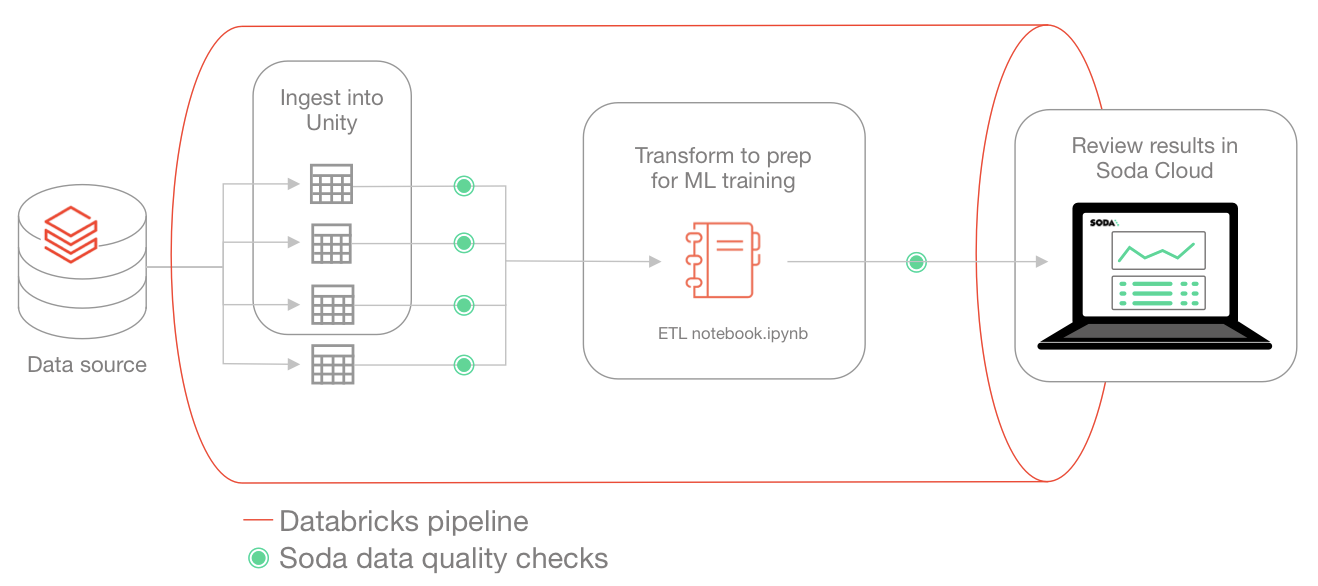
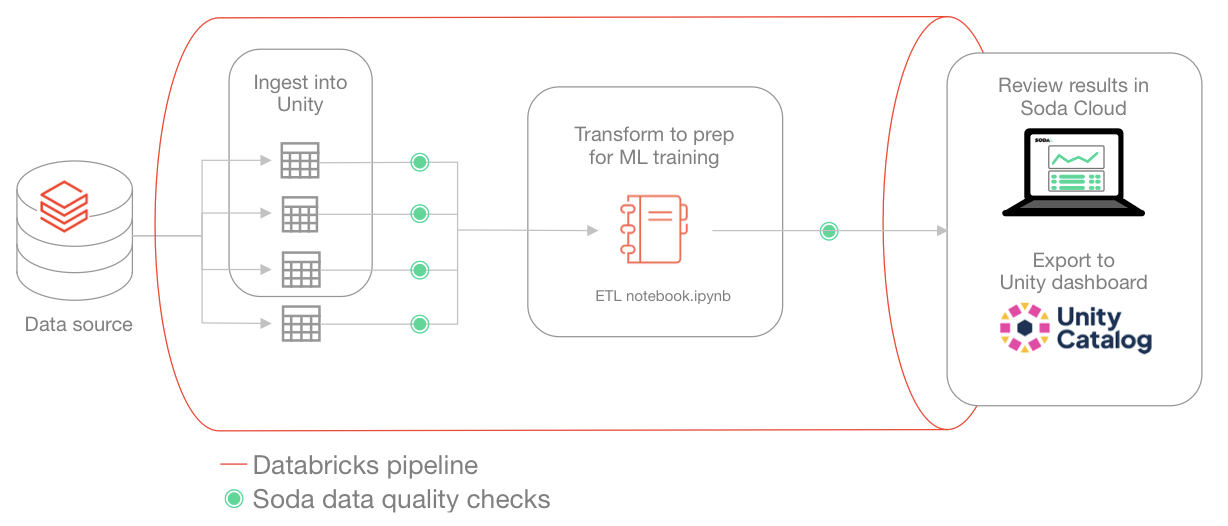
Addressed corrections + added unity catalog ending

diff --git a/soda/quick-start-databricks-pipeline.md b/soda/quick-start-databricks-pipeline.md
@@ -8,7 +8,7 @@ parent: Use case guides
 # Test data quality in a Databricks pipeline
 *Last modified on {% last_modified_at %}*
 
-Use this guide as an example for how to set up and use Soda to test the quality of data in a Databricks pipeline. Automatically catch data quality issues after ingestion or transformation, and before using the data to train a machine learning model to prevent negative downstream impact.
+Use this guide as an example for how to set up and use Soda to test the quality of data in a Databricks pipeline. Automatically catch data quality issues after ingestion or transformation, and before using the data to train a machine learning model.
 
 [Jump to Databricks notebooks](#invoke-soda-in-databricks-notebooks)
 
@@ -24,7 +24,8 @@ Use this guide as an example for how to set up and use Soda to test the quality 
 &nbsp;&nbsp;&nbsp;&nbsp;[Post-ingestion checks](#post-ingestion-checks)<br />
 &nbsp;&nbsp;&nbsp;&nbsp;[Post-transformation checks](#post-transformation-checks)<br />
 [Invoke Soda in Databricks notebooks](#invoke-soda-in-databricks-notebooks)<br />
-[Review check results](#review-check-results)<br />
+[Review check results in Soda Cloud](#review-check-results-in-soda-cloud)<br />
+[Review check results in a Unity dashboard](#review-check-results-in-a-unity-dashboard)<br />
 [Go further](#go-further)<br />
 <br />
 
@@ -33,7 +34,7 @@ Use this guide as an example for how to set up and use Soda to test the quality 
 
 The instructions below offer Data Scientists an example of how to execute Soda Checks Language (SodaCL) checks for data quality within a Databricks pipeline that handles data which trains a machine learning (ML) model.
 
-For context, this guide demonstrates a Data Scientist working with Human Resources data to build a prediction or forecast model for employee attrition. The Data Scientist uses a Databricks notebook to gather data from SQL-accessible dataset, transforms the data into the correct format for their ML model, then uses the data to train the model.
+For context, this guide demonstrates a Data Scientist working with Human Resources data to build a forecast model for employee attrition. The Data Scientist uses a Databricks notebook to gather data from SQL-accessible dataset, transforms the data into the correct format for their ML model, then uses the data to train the model.
 
 Though they do not have direct access to the data to be able to resolve issues themselves, the Data Scientist can use Soda to detect data quality issues before the data model trains on poor-quality data. The pipeline the Data Scientist creates includes various SodaCL checks embedded at two stages in the pipeline: after data ingestion and after data transformation. At the end of the process, the pipeline stores the checks' metadata in a Databricks table which feeds into a data quality dashboard. The Data Scientist utilizes Databricks workflows to schedule this process on a daily basis.
 
@@ -48,10 +49,10 @@ The Data Scientist in this example uses the following:
 
 ## Create a Soda Cloud account
 
-To validate an account license or free trial, Soda Library must communicate with a Soda Cloud account via API keys. You create a set of API keys in your Soda Cloud account, then use them to configure the connection to Soda Library. <a href="https://docs.soda.io/soda/about.html">Learn more</a>
+To validate an account license or free trial, Soda Library must communicate with a Soda Cloud account via API keys. You create a set of API keys in your Soda Cloud account, then use them to configure the connection to Soda Library.
 
 1. In a browser, the Data Scientist navigates to <a href="https://cloud.soda.io/signup" target="_blank">cloud.soda.io/signup</a> to create a new Soda account, which is free for a 45-day trial. 
-2. They navigate to **your avatar** > **Profile**, then access the **API keys** tab, then click the plus icon to generate new API keys. 
+2. They navigate to **your avatar** > **Profile**, access the **API keys** tab, then click the plus icon to generate new API keys. 
 3. They copy+paste the API key values to a temporary, secure place in their local environment.
 
 ## Connect Soda Cloud to Soda Library and data source
@@ -104,7 +105,11 @@ Read more: [SodaCL reference]({% link soda-cl/metrics-and-checks.md %})<br />
 
 The Data Scientist creates a checks YAML file to write checks that apply to the datasets they use to train their ML model. The Data Ingestion Checks notebook runs these checks after the data is ingested into the Unity catalog. For any checks that fail, the Data Scientist can notify upstream Data Engineers or Data Product Owners to address issues such as missing data or invalid entries.
 
-Many of the checks that the Data Scientist prepares include [check attributes]({% link soda-cl/check-attributes.md %}) which they created in Soda Cloud. When added to checks, the Data Scientist can use the attributes to filter check results in Soda Cloud, build custom views ([Collections]({% link soda-cloud/collaborate.md %}#build-check-collections)), and stay organized as they monitor data quality in the Soda Cloud UI. Skip to [Review check results](#review-check-results) to see an example.
+Many of the checks that the Data Scientist prepares include [check attributes]({% link soda-cl/check-attributes.md %}) which they created in Soda Cloud; see image below. When added to checks, the Data Scientist can use the attributes to filter check results in Soda Cloud, build custom views ([Collections]({% link soda-cloud/collaborate.md %}#build-check-collections)), and stay organized as they monitor data quality in the Soda Cloud UI. Skip to [Review check results](#review-check-results) to see an example.
+
+![attributes-pipeline](/assets/images/attributes-pipeline.png){:height="700px" width="700px"}
+
+<br />
 
 The Data Scientist also added a [dataset filter]({% link soda-cl/filters.md %}#configure-dataset-filters) to the quality checks that apply to the application login data. The filter serves to partition the data against which Soda executes the checks; instead of checking for quality on the entire dataset, the filter limits the scan to the previous day's data.
 
@@ -168,7 +173,7 @@ checks for employee_survey:
  - invalid_count(EnvironmentSatisfaction) = 0:
      valid min: 1
      valid max: 5
-     name: Values are formatted are in range 1-5
+     name: Values are formatted in range 1-5
      attributes:
        dimension: [Validity]
        pipeline_stage: Ingest
@@ -188,7 +193,7 @@ checks for employee_survey:
  - invalid_count(WorkLifeBalance) = 0:
      valid min: 1
      valid max: 5
-     name: Values are formatted are in range 1-5
+     name: Values are formatted in range 1-5
      attributes:
        dimension: [Validity]
        pipeline_stage: Ingest
@@ -205,7 +210,7 @@ checks for manager_survey:
  - invalid_count(PerformanceRating) = 0:
      valid min: 1
      valid max: 5
-     name: Values are formatted are in range 1-5
+     name: Values are formatted in range 1-5
      attributes:
        dimension: [Validity]
        pipeline_stage: Ingest
@@ -340,10 +345,10 @@ The following outlines the contents of each notebook and the steps included to i
 Download: <a href="/assets/Data Ingestion Checks.ipynb" download>Data Ingestion Checks.ipynb</a>
 {% include code-header.html %}
 ```python
-# Install to run checks on data in the Unity catalog
+# Install to run checks contained in files
 pip install -i https://pypi.cloud.soda.io soda-spark-df
 
-# Install to run checks on data in the file stored in Databricks file system
+# Install to run checks on data in Unity datasets
 pip install -i https://pypi.cloud.soda.io soda-spark[databricks]
 dbutils.library.restartPython()
 
@@ -355,10 +360,10 @@ from pathlib import Path
 from datetime import datetime, timedelta
 
 # Define file directory
-settings_path = Path('/Workspace/Users/vivi.belogianni@soda.io/employee_attrition/soda_settings')
+settings_path = Path('/Workspace/Users/my_user_id/employee_attrition/soda_settings')
 
 # Define results file directory
-result_path = Path('/Workspace/Users/vivi.belogianni@soda.io/employee_attrition/checks_output')
+result_path = Path('/Workspace/Users/my_user_id/employee_attrition/checks_output')
 
 # Define the file partition
 partition = (datetime.today().date() - timedelta(days=1)).strftime("%Y-%m-%d")
@@ -370,7 +375,7 @@ scan.set_scan_definition_name("Employee Attrition Scan")
 scan.set_data_source_name("employee_info")
 
 # Add file to be scanned 
-df = spark.read.option("header", True).csv(f"dbfs:/Workspace/Users/vivi.belogianni@soda.io/employee_attrition/soda_settings/login_logout/PartitionDate={partition}")
+df = spark.read.option("header", True).csv(f"dbfs:/Workspace/Users/my_user_id/employee_attrition/soda_settings/login_logout/PartitionDate={partition}")
 
 # Create temporary View to run the checks 
 df.createOrReplaceTempView("login_logout")
@@ -410,24 +415,6 @@ metadata = scan.build_scan_results()
 scan_date = datetime.now().date().strftime("%Y-%m-%d")
 
 scan.save_scan_result_to_file(result_path/f"ingestion_result_{scan_date}.json", metadata['checks'])
-checks_data = [
-    {
-        'column': check.get('column'),
-        'dataSource': check.get('dataSource'),
-        'outcome': check.get('outcome'),
-        'name': check.get('name'),
-        'scanEndTimestamp':metadata['scanEndTimestamp'],
-    }
-    for check in metadata.get('checks', [])
-]
-
-# output_data = {
-#     'scanEndTimestamp':metadata['scanEndTimestamp'],
-#     'checks': checks_data
-# }
-import json
-checks_data_json = json.dumps(checks_data)
-scan.save_scan_result_to_file(result_path/f"test.json", checks_data_json)
 ```
 
 <br />
@@ -436,7 +423,7 @@ scan.save_scan_result_to_file(result_path/f"test.json", checks_data_json)
 Download: <a href="/assets/Input Data Checks.ipynb" download>Input Data Checks.ipynb</a>
 {% include code-header.html %}
 ```python
-# Install to run checks on data in the file stored in Databricks file system
+# Install to run checks on data in Unity datasets 
 pip install -i https://pypi.cloud.soda.io soda-spark[databricks]
 
 #restart to use updated packages
@@ -449,7 +436,7 @@ from io import StringIO
 from pathlib import Path
 
 # Define file directory
-settings_path = Path('/Workspace/Users/vivi.belogianni@soda.io/employee_attrition/soda_settings')
+settings_path = Path('/Workspace/Users/my_user_id/employee_attrition/soda_settings')
 
 # Create a scan object
 scan = Scan()
@@ -488,13 +475,24 @@ print(scan.get_logs_text())
 
 <br />
 
-## Review check results
+## Review check results in Soda Cloud
 
 After running the notebooks, the Data Scientist accesses Soda Cloud to review the check results. 
 
 In the **Checks** page, they apply filters to narrow the results to the datasets involved in the Employee Attrition ML model, and distill the results even further by selecting to display only those results with the Pipeline attribute of `Ingest`. They save the results as a Collection labeled **Employee Attrition - Ingestion** to easily access the relevant quality results in the future.
 
 ![review-ingest-results](/assets/images/review-ingest-results.png){:width="700px"}
+
+<br />
+
+## Review check results in a Unity dashboard
+
+After the Data Scientist trains the model to forecast employee attrition, they decide to devise an extra step in the process to use the [Soda Cloud API]({% link api-docs/public-cloud-api-v1.md %}) export all the Soda check results and dataset metadata back into the Unity catalog, then build a dashboard to display the results. 
+
+*Coming soon:* a tutorial for building a dashboard using the Soda Cloud API!
+
+![unity-dashboard](/assets/images/unity-dashboard.png){:width="700px"}
+
 
 <br />
 
